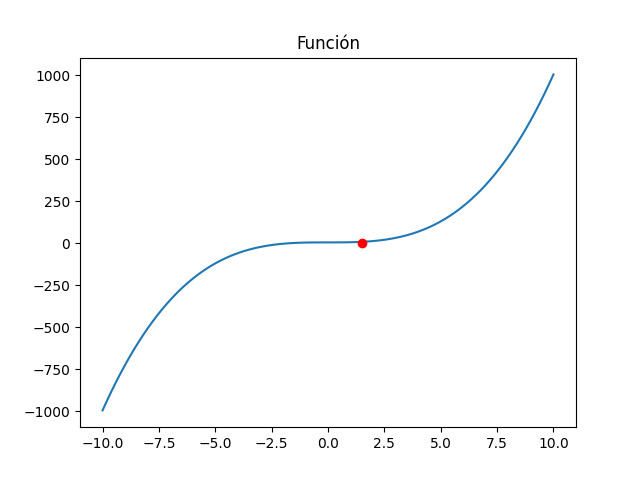
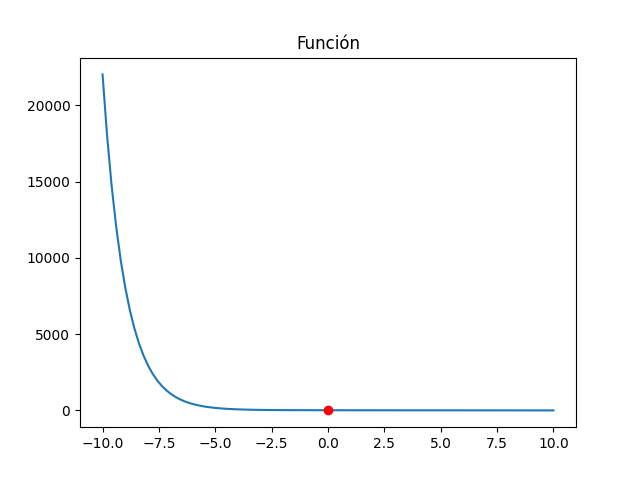
Punto fijo arreglado

diff --git a/nolineal.py b/nolineal.py
@@ -70,8 +70,8 @@ def falsa_posicion(a, b, tol, pol):
     x.append(round(a, tol+1))
     fx.append(f(a, pol))
 
-    e = 1
-    err.append(round(e*100, 4))
+    e = 100
+    err.append(round(e, 4))
 
     #if f(a, pol) * f(b, pol) > 0 and iter[0] == 1:
     #    print("No hay raiz en el intervalo")
@@ -112,20 +112,20 @@ def punto_fijo(x0, tol, pol):
     err = [] # Lista para guardar los errores en %
 
     tol = int(tol)
-    gx.append(round(g(x0, pol)))
 
+    gx.append(round(g(x0, pol)))
     x.append(round(x0, tol+1))
     fx.append(round(f(x0, pol), 4))
 
-    e = 1
-    err.append(round(e*100, 4))
+    e = 100
+    err.append(round(e, 4))
 
     while e > 10**(-1*tol):
         x0 = gx[-1]
-        e = abs(gx[-1] - x0)
         x.append(round(x0, tol+1))
         gx.append(round(g(x0, pol), tol+1))
         fx.append(round(f(x0, pol), tol+1))
+        e = abs((gx[-1] - x0)/x0)
         err.append(round(e*100, 4))
         
     return x, gx, fx, err
@@ -192,7 +192,7 @@ def secante(x0, x1, tol, pol):
     return x, fx, err
 
 
-funcion = 'x**3+4**2-10'
+funcion = 'np.exp(-x)-x'
 #bis = biseccion(0, 1.4, 3.0, funcion)
 #print(bis[2][-1])
 #graficar_funcion(funcion, bis[2][-1])
@@ -207,7 +207,7 @@ funcion = 'x**3+4**2-10'
 #    print(f)
 #    print("\n")
 
-pf = punto_fijo(1.5, 4, funcion)
+pf = punto_fijo(0, 4, funcion)
 print(pf[0][0])
 graficar_funcion(funcion, pf[0][0])
 for p in pf:
